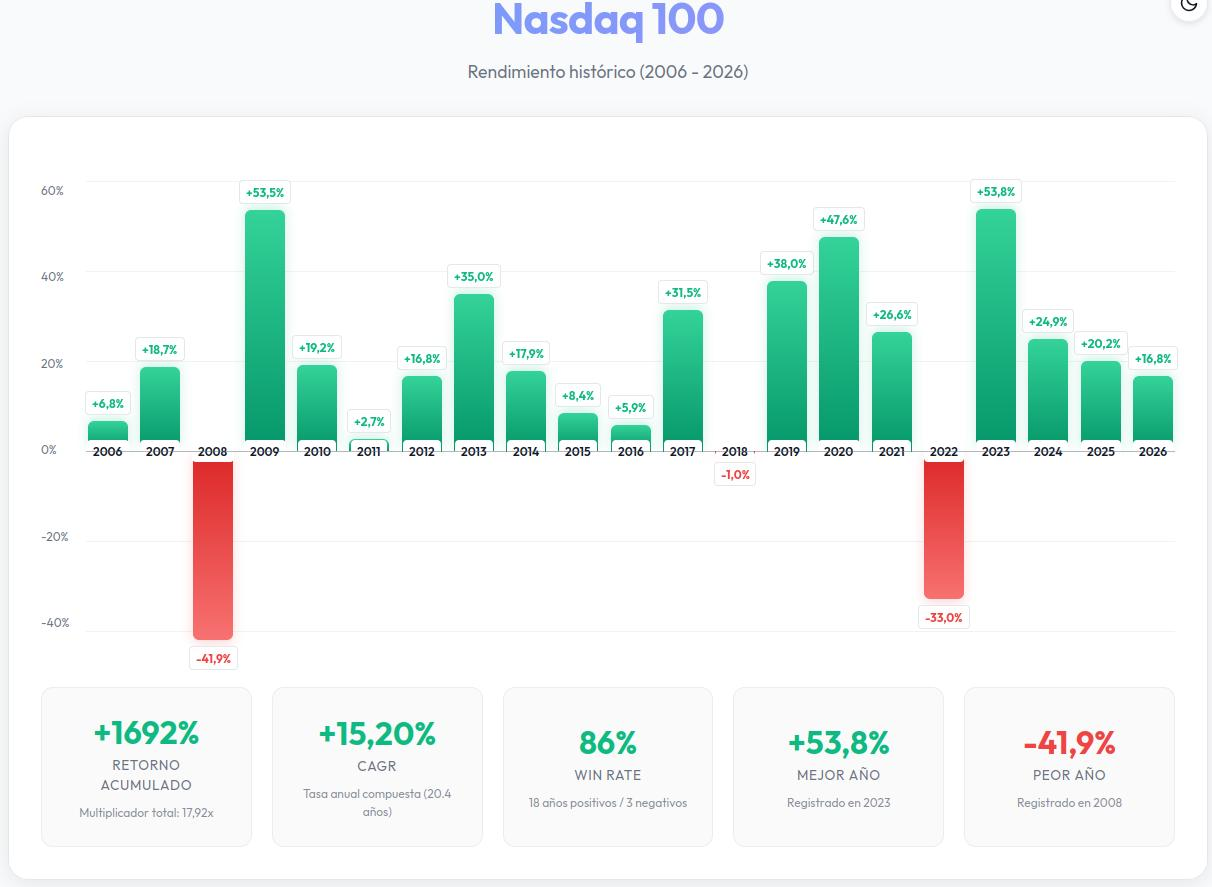
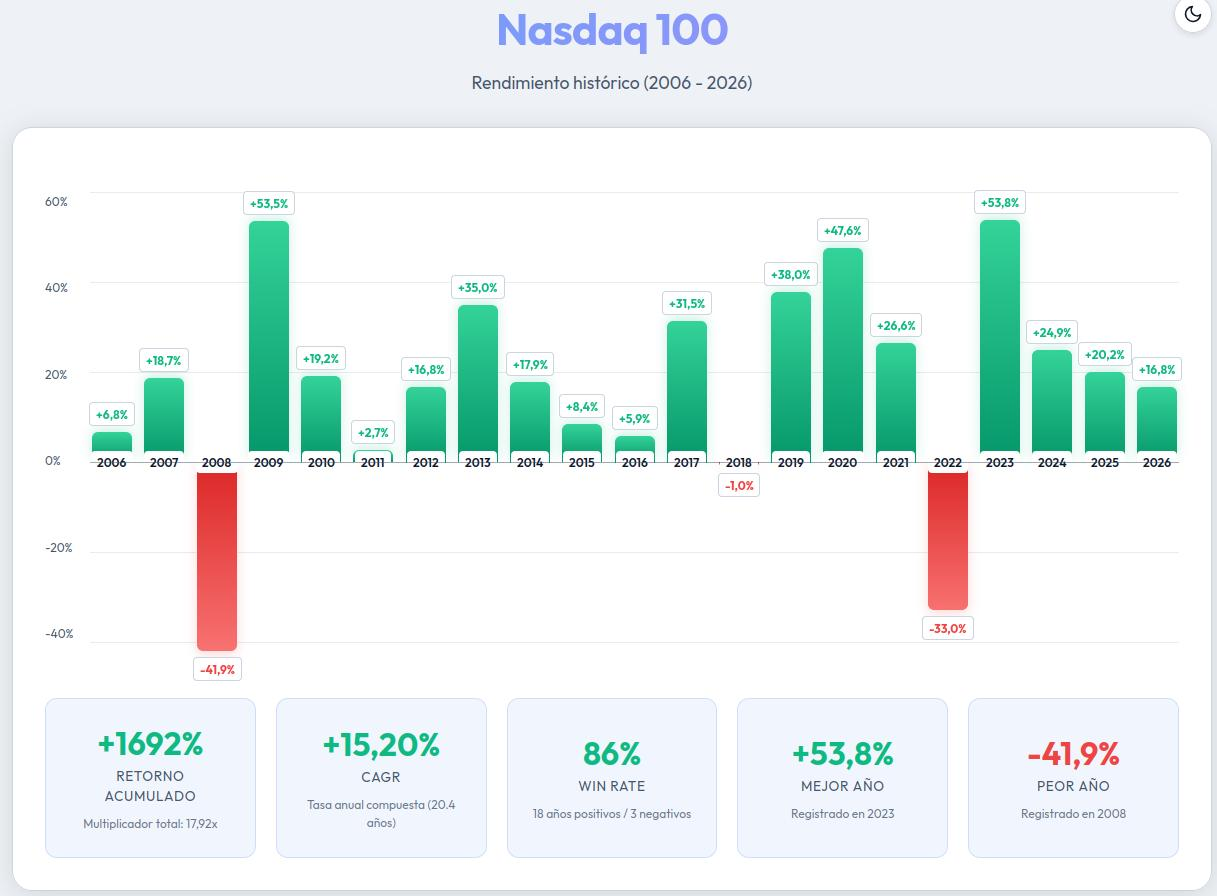
n100ok

diff --git a/_posts/2026-05-26-ROI_Histórico_Nasdaq.md b/_posts/2026-05-26-ROI_Histórico_Nasdaq.md
@@ -5,14 +5,7 @@ categories: [Markets]
 tags: [ROI, Anual]
 image: /assets/img/posts/roi.jpg
 ---
-<iframe 
-  src="/nasdaq_100_history.html" 
-  width="100%" 
-  height="1000px" 
-  frameborder="0"
-  scrolling="no"
-  style="border:none; display:block;">
-</iframe>
+
 
 ![Nasdaq 100 ROI 20 years](/assets/img/posts/nasdaq.jpg)
 